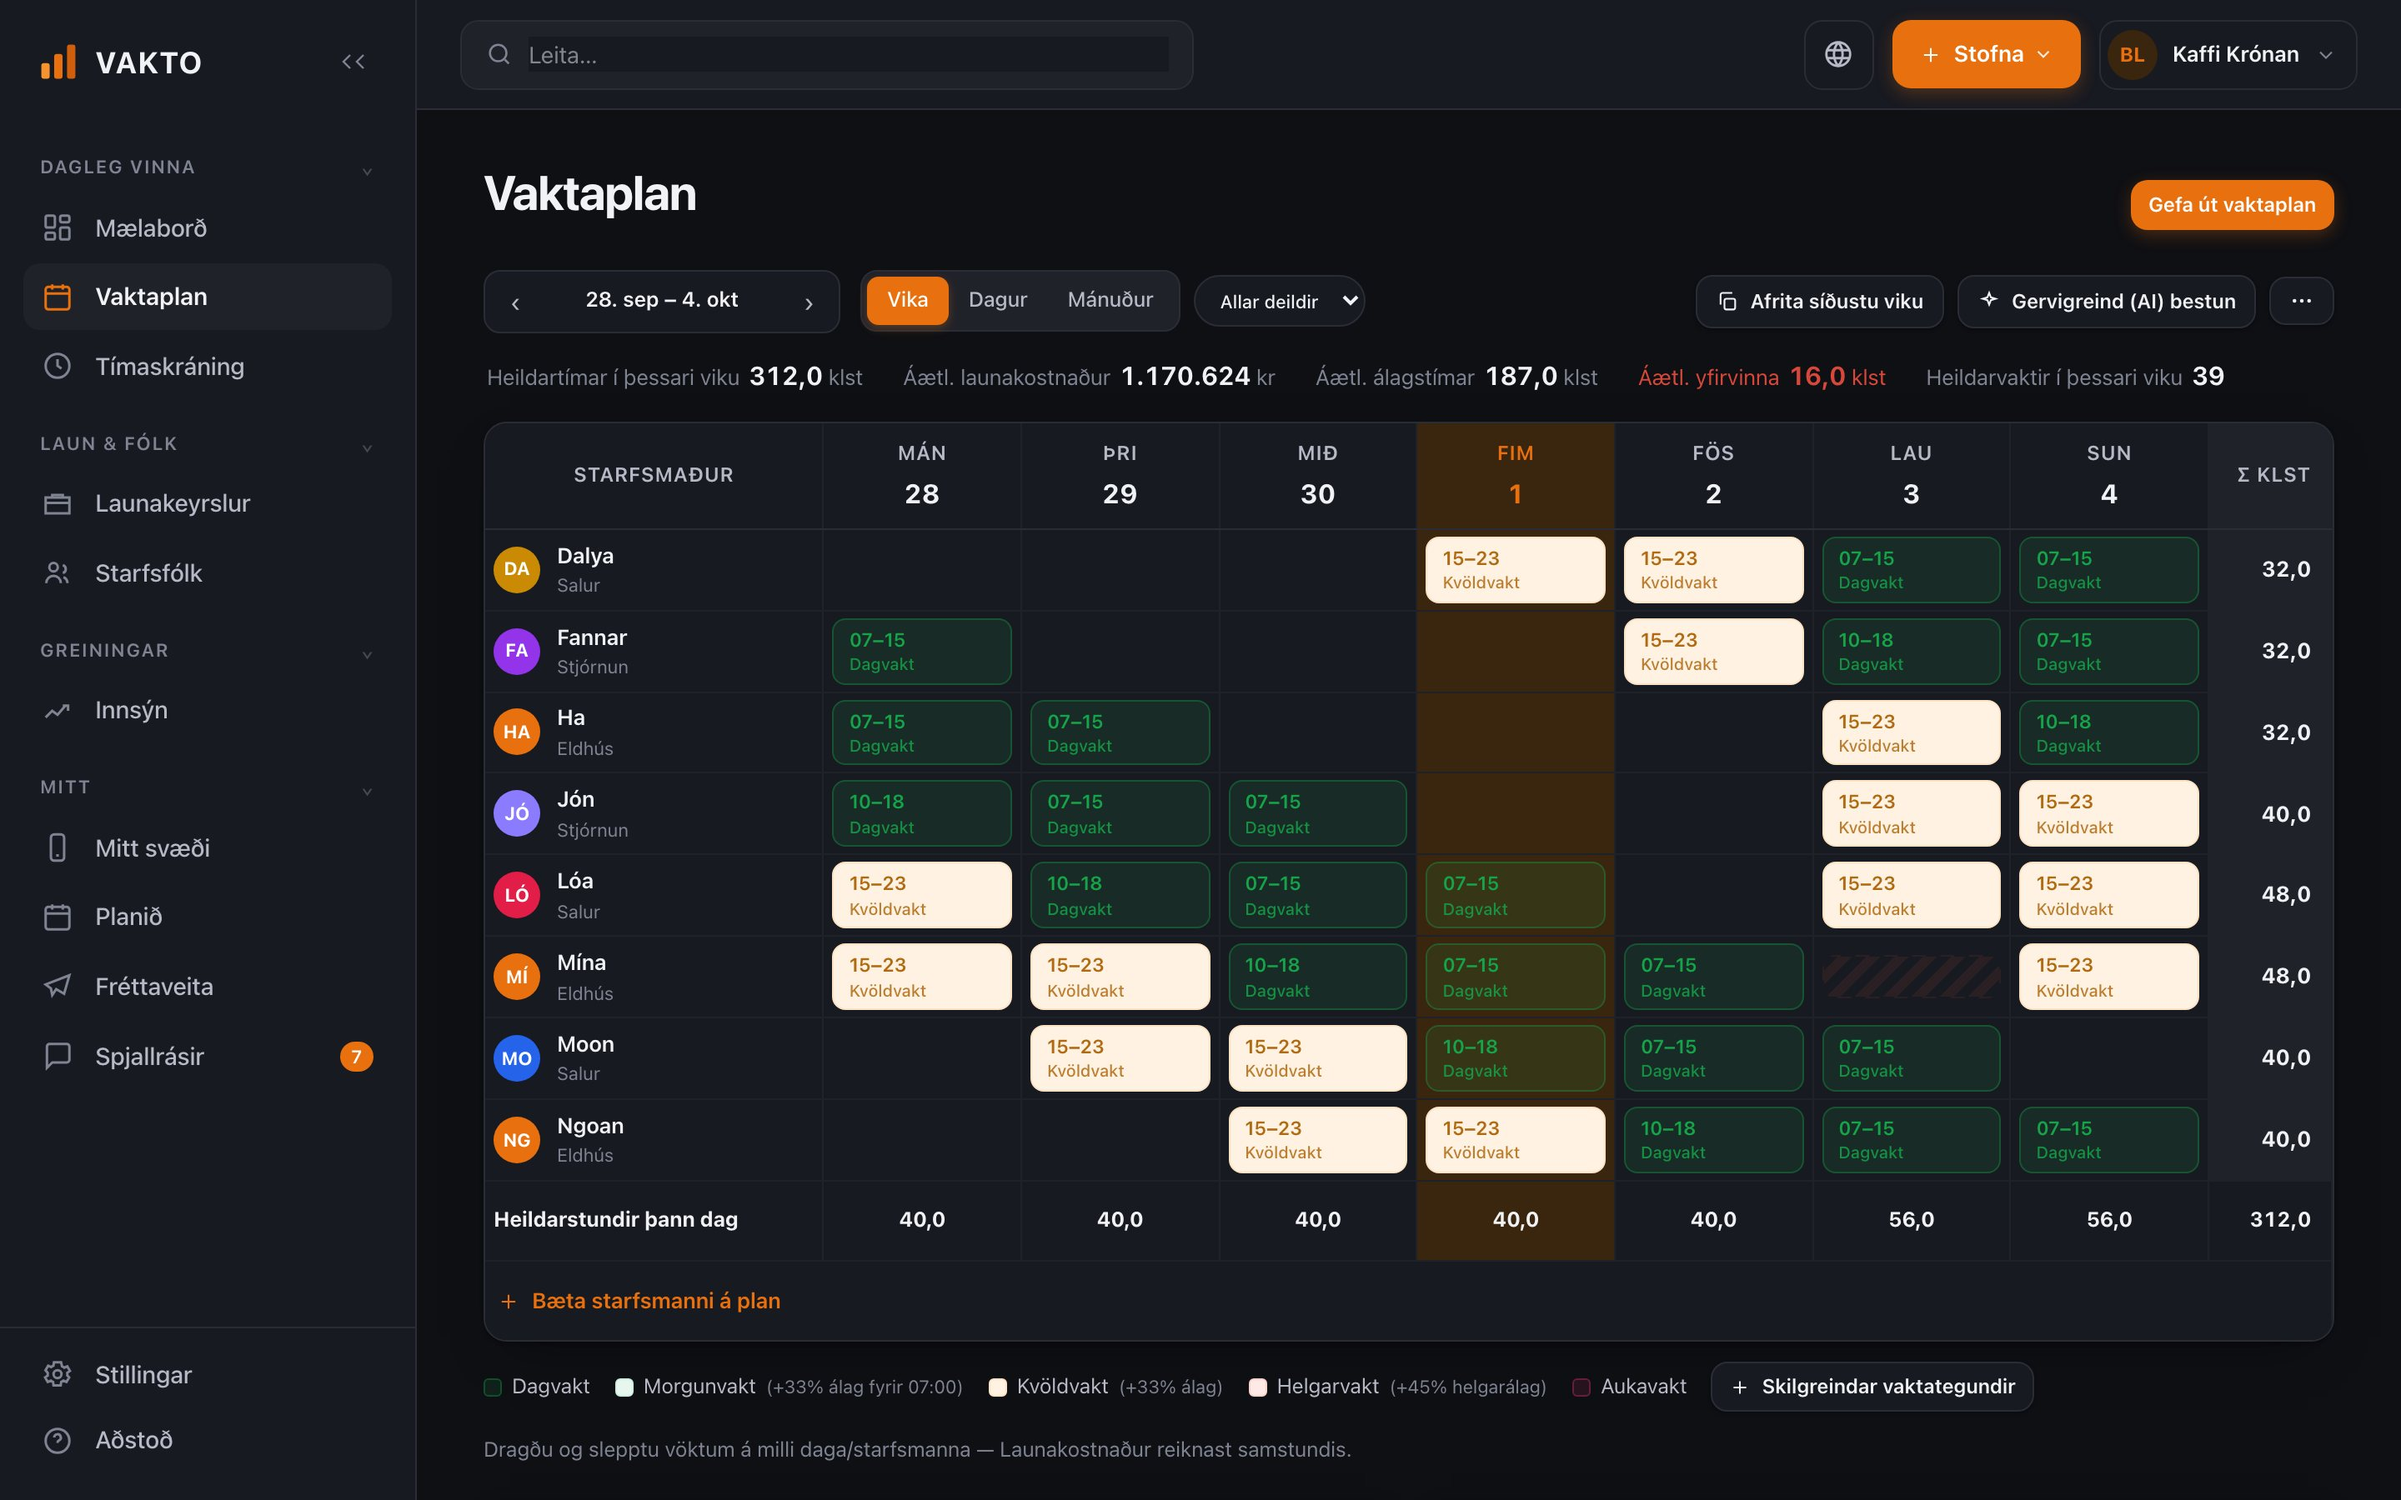
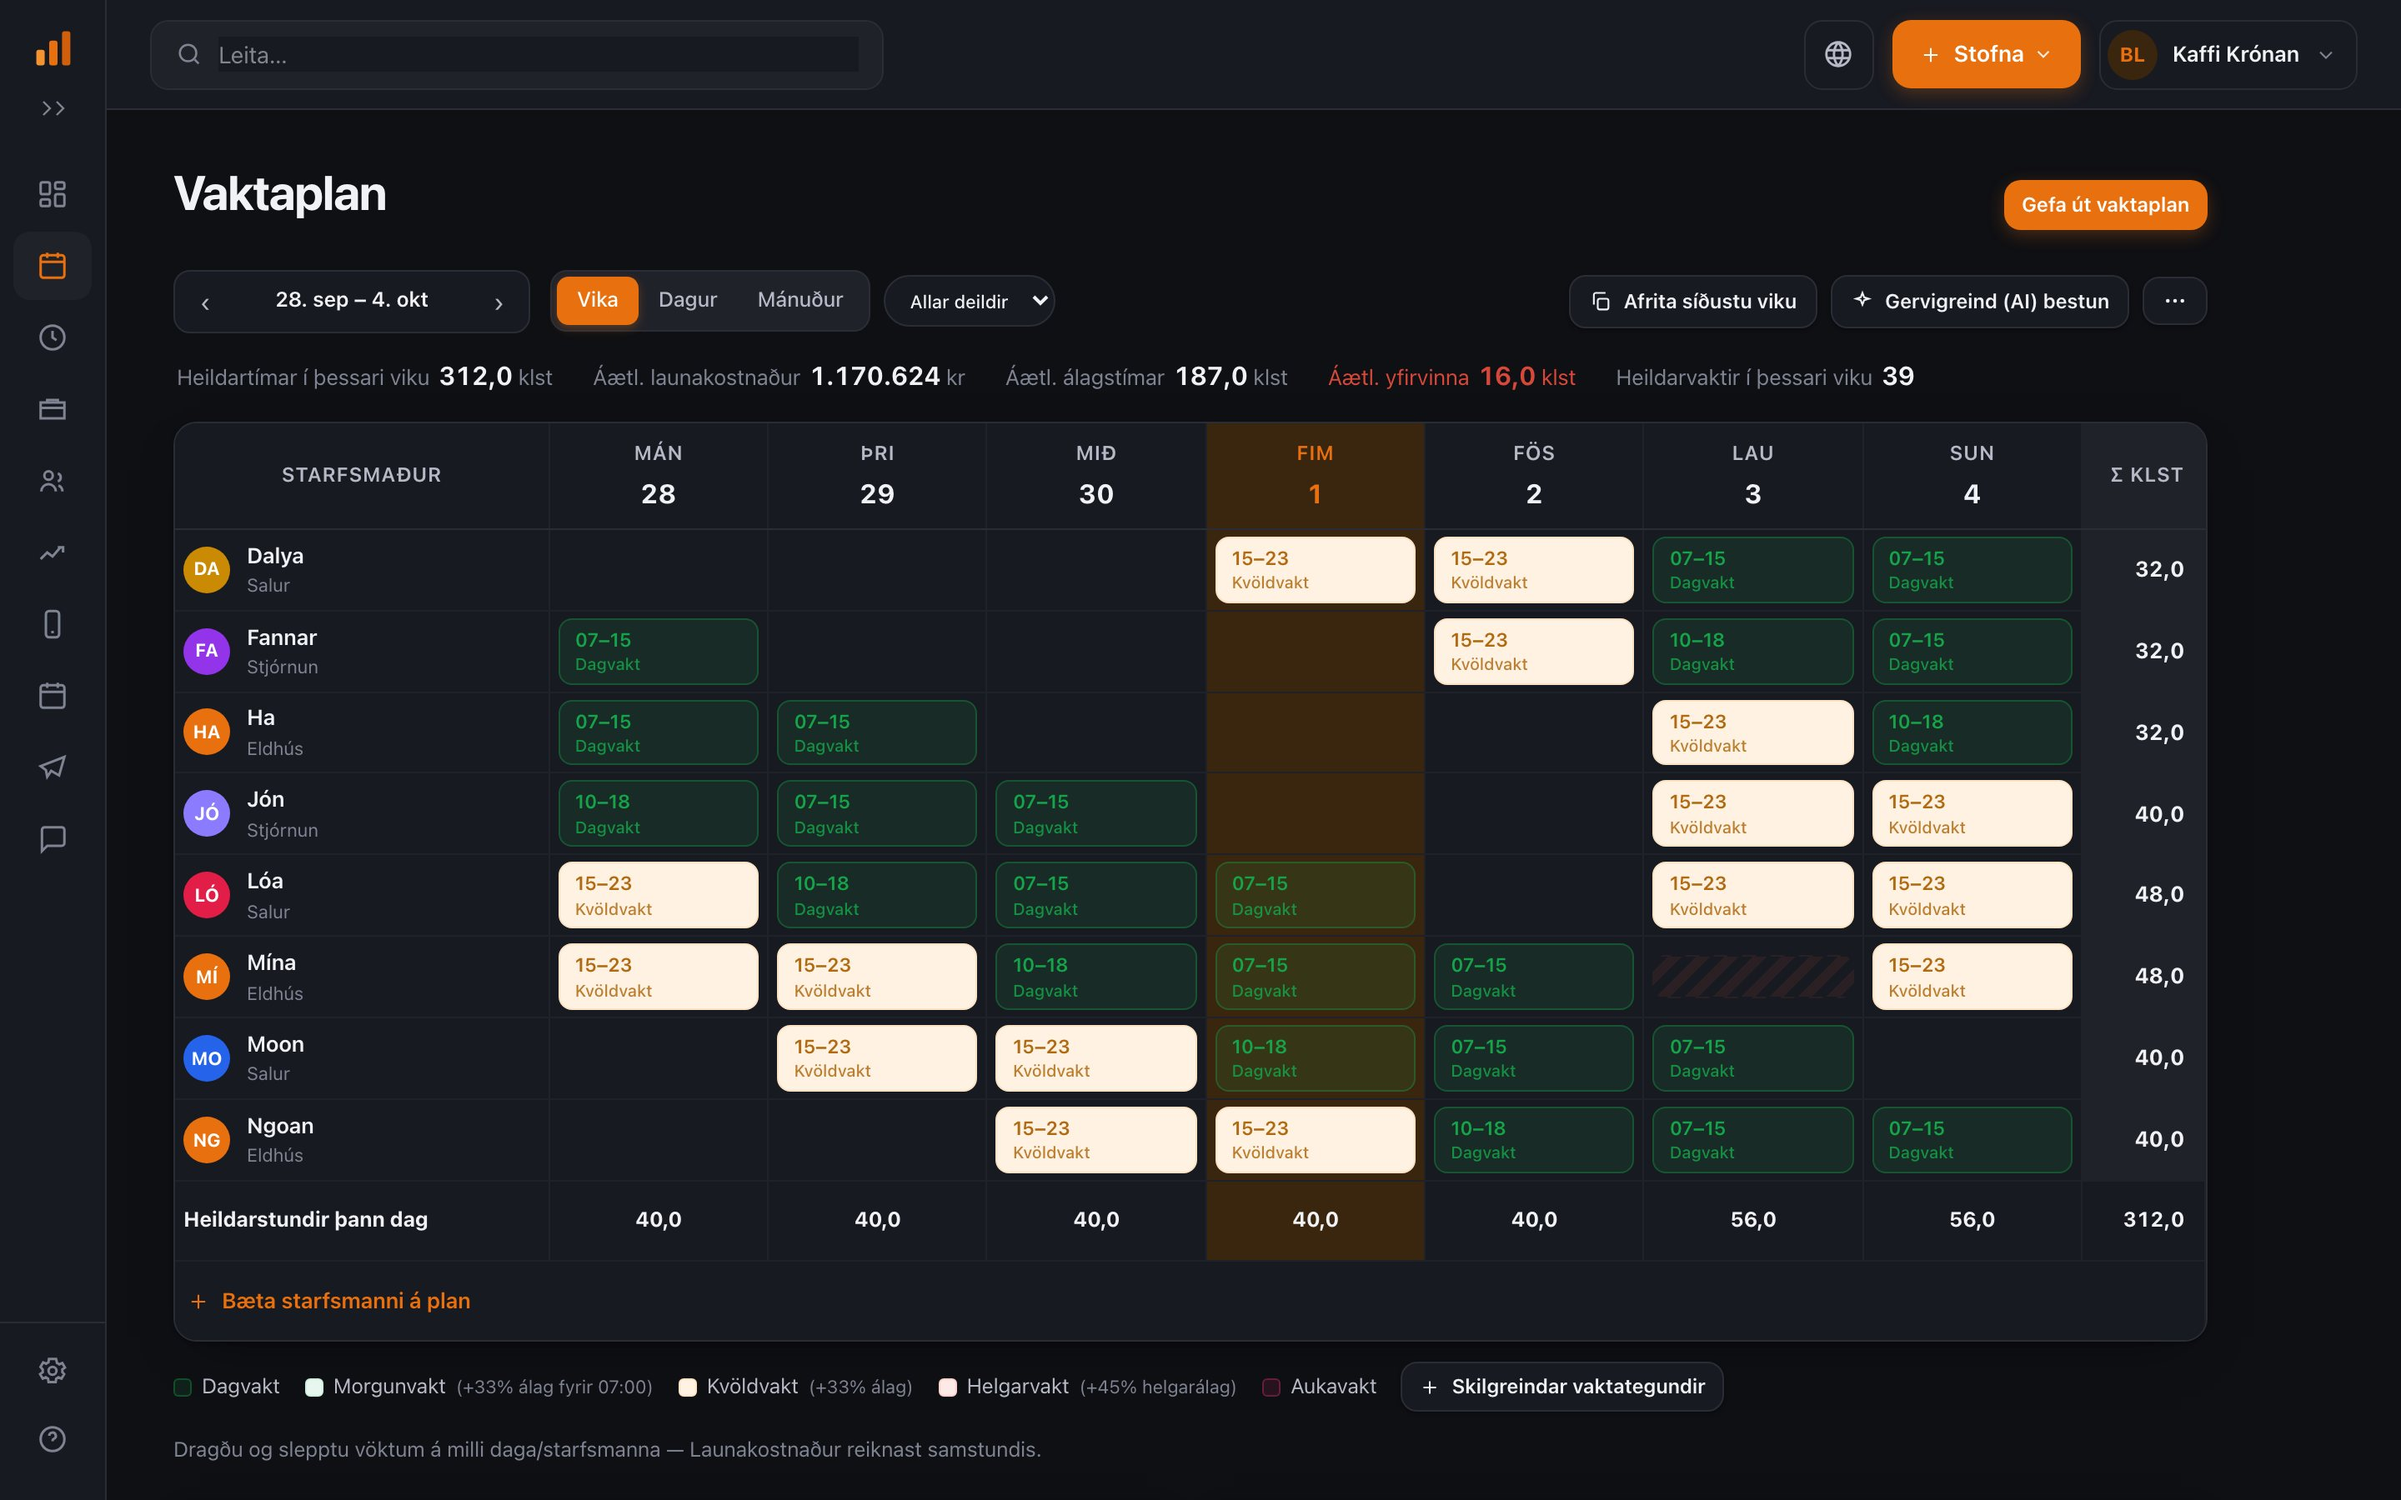
Forsíða: vaktaplan með lokaðri valmynd (íkon), sími fyllir háa reitinn
Claude-Session: https://claude.ai/code/session_017kkkUPRiPq4TA9D2SMUyRi

diff --git a/src/app/ny-heimasida/home.css b/src/app/ny-heimasida/home.css
@@ -105,6 +105,12 @@
 .ah-tile-warm{background:linear-gradient(165deg,rgba(255,244,233,.92),rgba(253,226,200,.85));box-shadow:0 0 0 1px rgba(233,112,15,.14),0 20px 50px -30px rgba(233,112,15,.45)}
 .ah-tall{grid-row:span 2;padding-bottom:32px;justify-content:space-between}
 .ah-tall .ah-phone{width:min(250px,64vw)}
+/* Síminn fyllir háa reitinn: hæðin ræður (allt að breidd reitsins), og hann nær aðeins niður fyrir brúnina */
+@media (min-width:901px){
+  .ah-tall{justify-content:flex-start;padding-bottom:0}
+  .ah-tall-ph{flex:1;min-height:0;position:relative;container-type:size;margin-top:6px}
+  .ah-tall-ph .ah-phone{position:absolute;top:0;left:50%;transform:translateX(-50%);width:auto;height:min(calc(100cqh + 70px),calc(100cqw * 2.164));aspect-ratio:390/844}
+}
 .ah-crop{position:relative;margin:0 -32px;overflow:hidden;border-top:1px solid var(--line);background:#f3f3f5;margin-top:auto}
 .ah-crop img{width:100%;height:100%;object-fit:cover}
 @media (max-width:900px){.ah-bento{grid-template-columns:1fr}.ah-wide,.ah-tall{grid-column:auto;grid-row:auto}}
@@ -237,13 +243,13 @@
 .ah-mac-tile .ah-mac-bar{height:30px}
 .ah-mac-tile .ah-dots i{width:9px;height:9px}
 .ah-mac-tile .ah-url{font-size:11px;padding:3px 10px}
-.ah-stage{position:absolute;inset:0;transform:scale(1.55);transform-origin:66% 47%}
+.ah-stage{position:absolute;inset:0;transform:scale(1.4);transform-origin:46% 44%}
 .ah-stage img{width:100%;height:100%;object-fit:cover;object-position:top left}
-.ah-dg-hole,.ah-dg{position:absolute;left:59.375%;top:35.78%;width:7.5%;height:4.44%}
-.ah-dg-hole,.ah-dg-chip{background-size:1333.3% auto;background-repeat:no-repeat}
-.ah-dg-hole{background-position:64.19% 54.42%;opacity:0}
-.ah-dg-chip{position:absolute;inset:0;background-position:64.19% 37.44%;border-radius:9%/20%;opacity:0}
-.ah-cursor{position:absolute;left:52%;top:46%;width:29%;overflow:visible;transform-origin:20% 10%;opacity:0;filter:drop-shadow(0 1px 1.5px rgba(0,0,0,.35))}
+.ah-dg-hole,.ah-dg{position:absolute;left:50.625%;top:35.78%;width:8.333%;height:4.44%}
+.ah-dg-hole,.ah-dg-chip{background-size:1200% auto;background-repeat:no-repeat}
+.ah-dg-hole{background-position:55.23% 54.42%;opacity:0}
+.ah-dg-chip{position:absolute;inset:0;background-position:55.23% 37.44%;border-radius:9%/20%;opacity:0}
+.ah-cursor{position:absolute;left:52%;top:46%;width:26%;overflow:visible;transform-origin:20% 10%;opacity:0;filter:drop-shadow(0 1px 1.5px rgba(0,0,0,.35))}
 .ah-cursor path{fill:#111;stroke:#fff;stroke-width:1.6;stroke-linejoin:round}
 .ah-mac-tile.run .ah-dg{animation:ah-dgm 8s cubic-bezier(.65,0,.35,1) infinite}
 .ah-mac-tile.run .ah-dg-chip{animation:ah-dgc 8s infinite}
@@ -375,7 +381,7 @@ img.ah-pass-av{object-fit:cover;border:2px solid rgba(255,255,255,.55);padding:0
 .ah-chatbox{background:#fbfbfd}
 @media (max-width:900px){.ah-dark-copy .ah-ticks{margin-left:auto;margin-right:auto}}
 @media (max-width:700px){
-  .ah-stage{transform:scale(2.3);transform-origin:62% 46%}
+  .ah-stage{transform:scale(2.2);transform-origin:52% 46%}
   .ah-mac-tile{margin-bottom:-30px}
   .ah-peek{margin:auto -22px -150px}
   .ah-chatfab{padding:13px}

diff --git a/src/app/ny-heimasida/home-client.tsx b/src/app/ny-heimasida/home-client.tsx
@@ -237,7 +237,7 @@ function Features() {
         </div>
         <div className="ah-tile ah-tall ah-tile-warm">
           <div className="ah-tile-tx"><h3>Stimplað í símanum.</h3><p>Eða á spjaldtölvu við innganginn. Staðsetning staðfest ef þú vilt.</p></div>
-          <Phone live src={`${SHOT}/light/app-heim.png`} alt="VAKTO-appið: á vakt síðan 05:38, stimpla út" />
+          <div className="ah-tall-ph"><Phone live src={`${SHOT}/light/app-heim.png`} alt="VAKTO-appið: á vakt síðan 05:38, stimpla út" /></div>
         </div>
         <div className="ah-tile">
           <div className="ah-tile-tx"><h3>Frávik með krónutölu.</h3><p>Hver mætti seint, hver fór fyrr og hvað það kostaði.</p></div>
